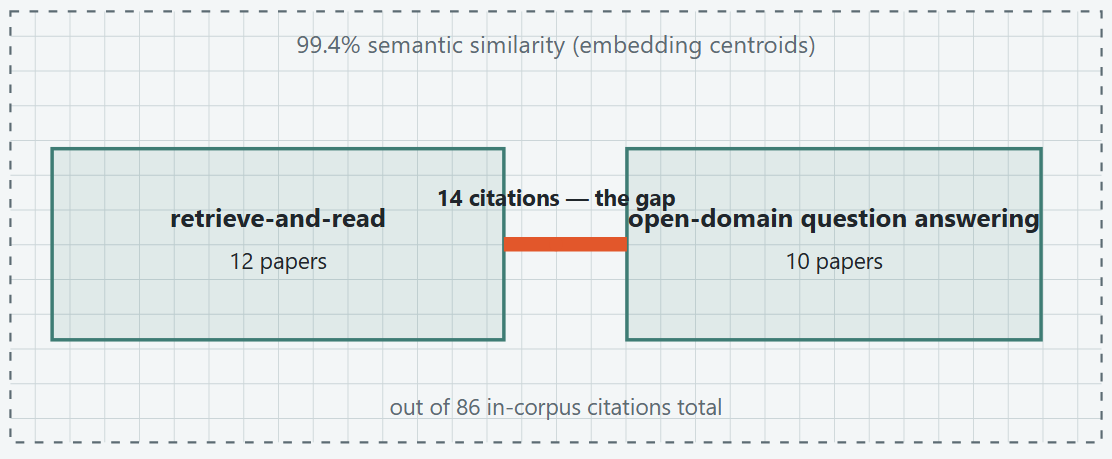
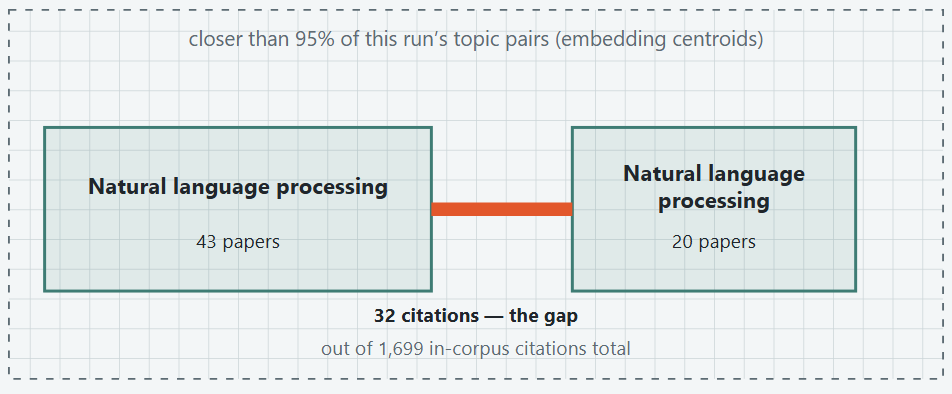
fix(web): bridge diagram citation-label overlap and long-label overflow
Desktop: the "N citations" label sat between the two boxes at a fixed x,
but at max box width the gap between boxes shrinks to ~60px -- far
narrower than the label text, so it overlapped box B. Moved the label
below the box row, where the full diagram width is open regardless of
box size; the connector line/circle still marks the link itself.

Topic labels now greedily wrap to at most 2 lines sized to the box's
actual width (falling back to an ellipsis on line 2) instead of
overflowing a fixed-size box -- applies to both the desktop and the
stacked mobile layout. Re-screenshotted against the real field data plus
a synthetic worst case (two long labels, near-max box sizes, 48 cross
citations) to verify the fix under the conditions that broke it.

diff --git a/web/src/components/BridgeDiagram.tsx b/web/src/components/BridgeDiagram.tsx
@@ -27,6 +27,45 @@ function connectorWidth(interCitations: number): number {
   return Math.min(MIN_STROKE + Math.sqrt(interCitations) * 1.8, MAX_STROKE);
 }
 
+// Review fix: long real topic labels ("dense passage retrieval for
+// open-domain question answering") overflowed the box at a fixed font size.
+// SVG has no native word-wrap, so this greedily wraps to at most 2 lines
+// sized to the box's actual width, truncating line 2 with an ellipsis if it's
+// still too long -- an approximation (average glyph width, not measured text)
+// but one that degrades to "slightly tight" rather than "overflows the box".
+const AVG_CHAR_WIDTH_RATIO = 0.56;
+
+function wrapLabel(label: string, boxW: number, fontSize: number): string[] {
+  const maxChars = Math.max(6, Math.floor((boxW - 16) / (fontSize * AVG_CHAR_WIDTH_RATIO)));
+  if (label.length <= maxChars) return [label];
+  const words = label.split(" ");
+  let line1 = "";
+  let splitAt = 0;
+  for (; splitAt < words.length; splitAt++) {
+    const next = line1 ? `${line1} ${words[splitAt]}` : words[splitAt];
+    if (next.length > maxChars && line1) break;
+    line1 = next;
+  }
+  let line2 = words.slice(splitAt).join(" ");
+  if (!line2) return [line1];
+  if (line2.length > maxChars) line2 = `${line2.slice(0, Math.max(1, maxChars - 1))}…`;
+  return [line1, line2];
+}
+
+function BoxLabel({ lines, cx, cy, fontSize }: { lines: string[]; cx: number; cy: number; fontSize: number }) {
+  const lineHeight = fontSize + 3;
+  const startY = cy - ((lines.length - 1) * lineHeight) / 2;
+  return (
+    <>
+      {lines.map((line, i) => (
+        <text key={i} x={cx} y={startY + i * lineHeight} textAnchor="middle" style={{ fill: "var(--text)", fontSize, fontWeight: 700 }}>
+          {line}
+        </text>
+      ))}
+    </>
+  );
+}
+
 export function BridgeDiagram({
   aLabel,
   aSize,
@@ -71,19 +110,15 @@ export function BridgeDiagram({
 
         <g transform={`translate(${160 - wA / 2}, 85)`}>
           <rect width={wA} height={BOX_H} style={{ fill: "var(--region-wash)", stroke: "var(--region)", strokeWidth: 2 }} />
-          <text x={wA / 2} y={BOX_H / 2 - 10} textAnchor="middle" style={{ fill: "var(--text)", fontSize: 15, fontWeight: 700 }}>
-            {aLabel}
-          </text>
-          <text x={wA / 2} y={BOX_H / 2 + 14} textAnchor="middle" style={{ fill: "var(--text)", fontSize: 13 }}>
+          <BoxLabel lines={wrapLabel(aLabel, wA, 15)} cx={wA / 2} cy={BOX_H / 2 - 10} fontSize={15} />
+          <text x={wA / 2} y={BOX_H / 2 + 26} textAnchor="middle" style={{ fill: "var(--text)", fontSize: 13 }}>
             {aSize} papers
           </text>
         </g>
         <g transform={`translate(${480 - wB / 2}, 85)`}>
           <rect width={wB} height={BOX_H} style={{ fill: "var(--region-wash)", stroke: "var(--region)", strokeWidth: 2 }} />
-          <text x={wB / 2} y={BOX_H / 2 - 10} textAnchor="middle" style={{ fill: "var(--text)", fontSize: 15, fontWeight: 700 }}>
-            {bLabel}
-          </text>
-          <text x={wB / 2} y={BOX_H / 2 + 14} textAnchor="middle" style={{ fill: "var(--text)", fontSize: 13 }}>
+          <BoxLabel lines={wrapLabel(bLabel, wB, 15)} cx={wB / 2} cy={BOX_H / 2 - 10} fontSize={15} />
+          <text x={wB / 2} y={BOX_H / 2 + 26} textAnchor="middle" style={{ fill: "var(--text)", fontSize: 13 }}>
             {bSize} papers
           </text>
         </g>
@@ -94,7 +129,13 @@ export function BridgeDiagram({
             <circle cx="320" cy="140" r={4} style={{ fill: "var(--mark)" }} />
           </>
         )}
-        <text x="320" y={hasBridge ? 118 : 140} textAnchor="middle" style={{ fill: "var(--text)", fontSize: 13, fontWeight: 700 }}>
+        {/* Review fix: this label used to sit at y=118/140, between the two
+            boxes -- at max box width the gap between boxes is only ~60px,
+            far narrower than the label text, so it overlapped box B. Moved
+            below the box row (y=195) where the full 640px width is open
+            regardless of box size; the connector line/circle above still
+            marks the link itself. */}
+        <text x="320" y="216" textAnchor="middle" style={{ fill: "var(--text)", fontSize: 13, fontWeight: 700 }}>
           {hasBridge ? `${interCitations} citations — the gap` : "0 citations cross — the gap"}
         </text>
         <text x="320" y="238" textAnchor="middle" style={{ fill: "var(--text-muted)", fontSize: 13 }}>
@@ -117,10 +158,8 @@ export function BridgeDiagram({
 
         <g transform={`translate(${160 - wA / 2}, 42)`}>
           <rect width={wA} height={BOX_H} style={{ fill: "var(--region-wash)", stroke: "var(--region)", strokeWidth: 2 }} />
-          <text x={wA / 2} y={BOX_H / 2 - 10} textAnchor="middle" style={{ fill: "var(--text)", fontSize: 14, fontWeight: 700 }}>
-            {aLabel}
-          </text>
-          <text x={wA / 2} y={BOX_H / 2 + 14} textAnchor="middle" style={{ fill: "var(--text)", fontSize: 13 }}>
+          <BoxLabel lines={wrapLabel(aLabel, wA, 14)} cx={wA / 2} cy={BOX_H / 2 - 10} fontSize={14} />
+          <text x={wA / 2} y={BOX_H / 2 + 26} textAnchor="middle" style={{ fill: "var(--text)", fontSize: 13 }}>
             {aSize} papers
           </text>
         </g>
@@ -133,10 +172,8 @@ export function BridgeDiagram({
 
         <g transform={`translate(${160 - wB / 2}, 198)`}>
           <rect width={wB} height={BOX_H} style={{ fill: "var(--region-wash)", stroke: "var(--region)", strokeWidth: 2 }} />
-          <text x={wB / 2} y={BOX_H / 2 - 10} textAnchor="middle" style={{ fill: "var(--text)", fontSize: 14, fontWeight: 700 }}>
-            {bLabel}
-          </text>
-          <text x={wB / 2} y={BOX_H / 2 + 14} textAnchor="middle" style={{ fill: "var(--text)", fontSize: 13 }}>
+          <BoxLabel lines={wrapLabel(bLabel, wB, 14)} cx={wB / 2} cy={BOX_H / 2 - 10} fontSize={14} />
+          <text x={wB / 2} y={BOX_H / 2 + 26} textAnchor="middle" style={{ fill: "var(--text)", fontSize: 13 }}>
             {bSize} papers
           </text>
         </g>
